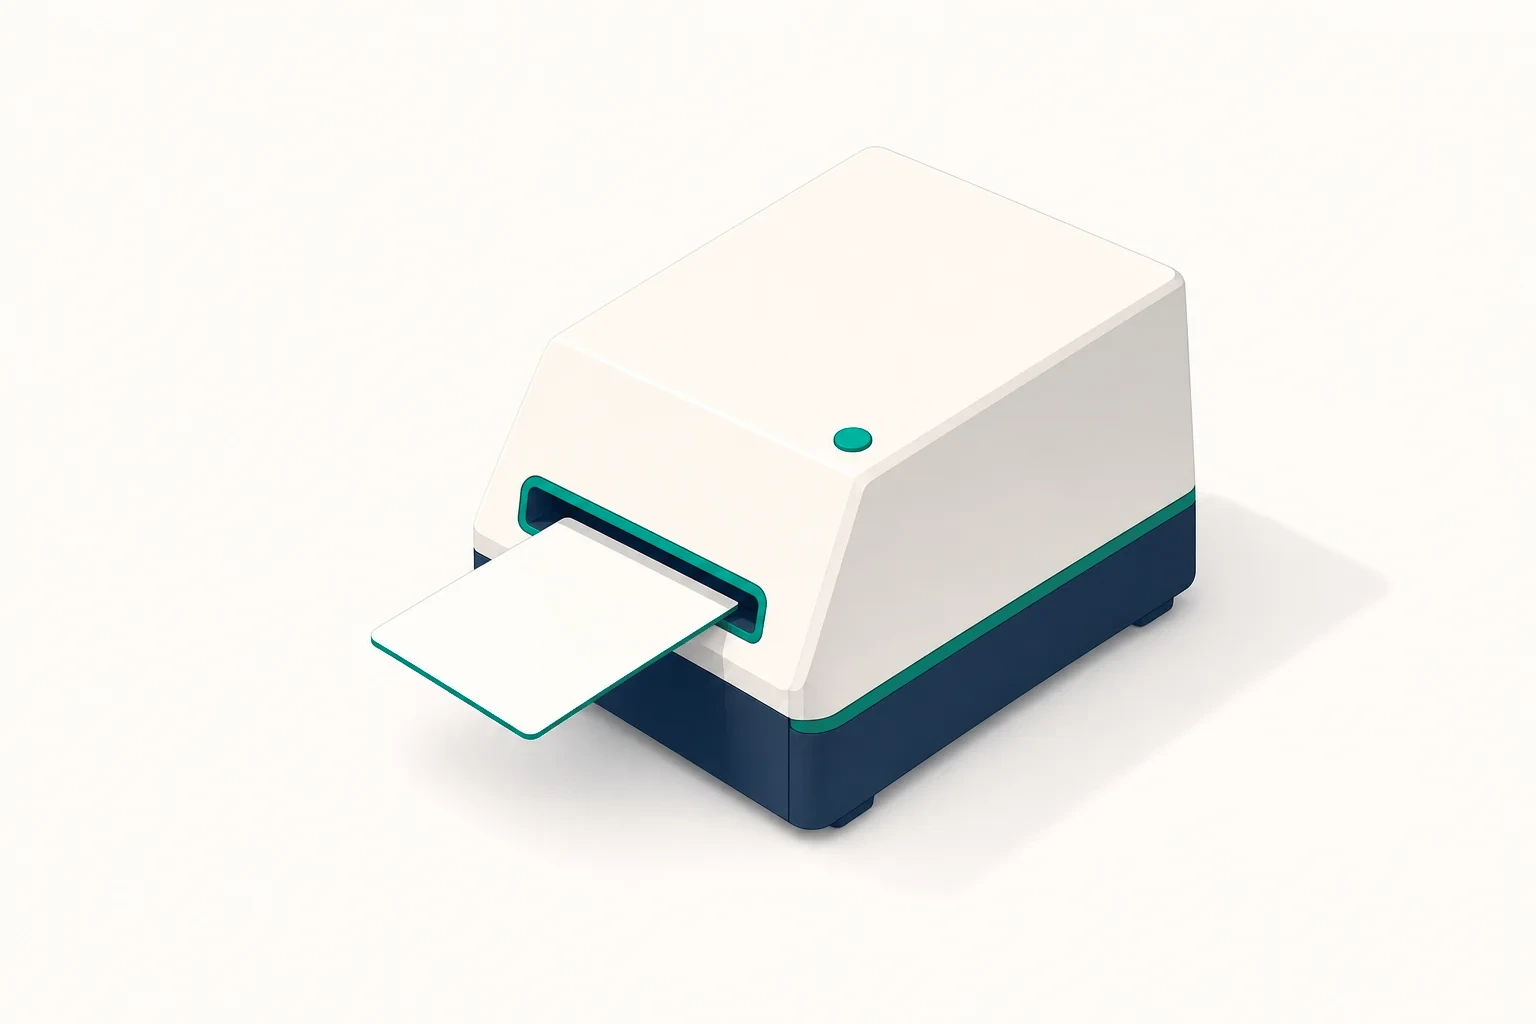
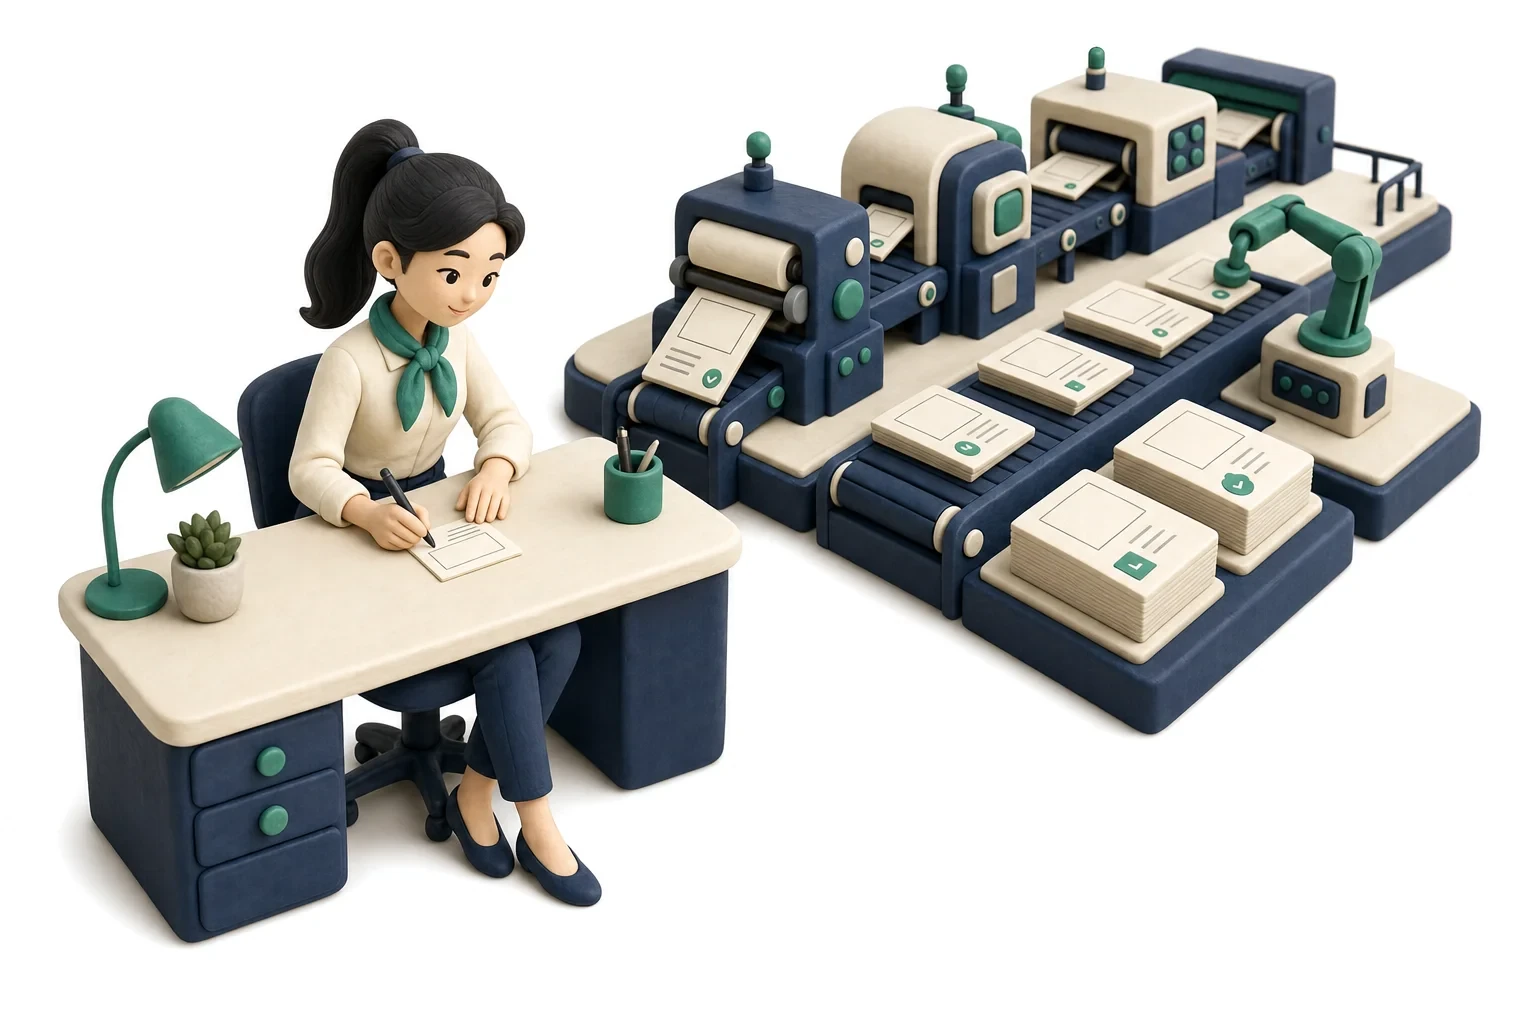
The page becomes one story: light chrome, a commanding hero, and a plane at the end
Loop three, guided by narrative research (StoryBrand: the customer is the
hero; every section one idea; the promise echoed in proof and ask).

The chrome matches the story now. The global navy bar stood over a white
hero, so this page carries its own light header — wordmark, sign in, start
producing — and the site footer keeps every column it always had but wears
its own built-in light theme here, closing the page on the same surface it
opened. Between them, exactly one dark act remains: channels flowing into
the ask, no longer two stacked navy bands over a navy footer.

The hero is recast as the panorama — printing, sealing, and a truck being
loaded in one frame, the producer commanding the middle — so the whole
pipeline passes the five-second test before a word is read. Her desk scene
takes the brief beat, which means cause and effect now share one visual
world. The Monday jump is framed honestly as a flashback (Before — any
given Monday / After — the same week), every beat speaks to you instead of
about her, and the background rhythm alternates strictly to the finale.

And at the end, the ambient moment: every fourteen seconds the sendoff
plane crosses the finale and rests — one element, transform-only, silent
under reduced motion. The kind of small recurring life the best pages leave
you with.

Claude-Session: https://claude.ai/code/session_01RHbMgFrd4oMPPzvhxNmHzD

diff --git a/src/components/HomeV3/HomeV3Page.tsx b/src/components/HomeV3/HomeV3Page.tsx
@@ -28,6 +28,7 @@ const cormorant = Cormorant_Garamond({
 });
 
 import ProcessScrubber from './ProcessScrubber';
+import HomeV3Header from './HomeV3Header';
 import CountUp from './CountUp';
 import './HomeV3.css';
 
@@ -50,6 +51,7 @@ const CHANNELS = [
 export default function HomeV3Page() {
   return (
     <div className={`hv3 ${cormorant.variable}`}>
+      <HomeV3Header />
       {/* ══ ACT I · The promise, with her on the floor ══
           Vertical: badge → headline → sub → CTAs, then the master scene
           spreading edge to edge underneath. The section's background IS the
@@ -78,9 +80,9 @@ export default function HomeV3Page() {
         <figure className="hv3-master hv3-enter" style={{ animationDelay: '380ms' }}>
           <img
             src="/brand/scenes/master.webp"
-            alt="The producer directing an isometric production floor — three lines turning out finished, approved creatives"
+            alt="One production floor, three zones: machines printing creatives, a sealing station stamping them, and a truck being loaded — the producer standing in command at the center"
             width={1536}
-            height={1024}
+            height={922}
             fetchPriority="high"
           />
         </figure>
@@ -92,14 +94,14 @@ export default function HomeV3Page() {
           <figure className="hv3-figure hv3-figure--monday">
             <img
               src="/brand/scenes/clay-monday.webp"
-              alt="The producer buried under an avalanche of creative requests, the wall calendar slipping off its hook"
+              alt="Buried under an avalanche of creative requests, the wall calendar slipping off its hook"
               loading="lazy"
               width={1536}
               height={1024}
             />
           </figure>
           <div>
-            <span className="hv3-eyebrow">Monday</span>
+            <span className="hv3-eyebrow">Before — any given Monday</span>
             <h2 className="hv3-title">Requests arrive faster than anyone can make them.</h2>
             <p className="hv3-lede">
               In more sizes than anyone wants to resize, for more channels than
@@ -115,16 +117,16 @@ export default function HomeV3Page() {
         <div className="hv3-container hv3-split hv3-split--rev">
           <div>
             <span className="hv3-eyebrow">The brief</span>
-            <h2 className="hv3-title">So she writes one brief.</h2>
+            <h2 className="hv3-title">So you write one brief.</h2>
             <p className="hv3-lede">
               Audience, offer, tone — the way you&apos;d brief a colleague.
-              It&apos;s the last production document anyone writes.
+              It&apos;s the last production document you&apos;ll write.
             </p>
           </div>
           <figure className="hv3-figure">
             <img
               src="/brand/scenes/brief.webp"
-              alt="One brief card sliding into the machine's intake"
+              alt="Writing the one brief at a desk while the production floor waits beyond it"
               loading="lazy"
               width={1536}
               height={1024}
@@ -186,7 +188,7 @@ export default function HomeV3Page() {
             />
           </figure>
           <div>
-            <span className="hv3-eyebrow">Keep producing</span>
+            <span className="hv3-eyebrow">After — the same week</span>
             <h2 className="hv3-title">Monday, handled.</h2>
             <p className="hv3-lede">
               Approve the direction once and the line keeps running on
@@ -197,7 +199,7 @@ export default function HomeV3Page() {
       </section>
 
       {/* ══ The receipts ══ */}
-      <section className="hv3-section hv3-section--alt">
+      <section className="hv3-section">
         <div className="hv3-container">
           <span className="hv3-eyebrow">
             <span className="hv3-live-dot" aria-hidden="true" /> Live · In production
@@ -206,7 +208,7 @@ export default function HomeV3Page() {
           <p className="hv3-lede">
             A consumer marketplace, fed entirely by Esy workflows — every
             asset generated, processed, stored, and billed with a full record.
-            Here are six, straight from the live catalog.
+            This is what autopilot ships — six assets, straight from the live catalog.
           </p>
           <dl className="hv3-stats">
             <div>
@@ -269,6 +271,16 @@ export default function HomeV3Page() {
 
       {/* ══ The ask ══ */}
       <section className="hv3-final">
+        {/* The recurring moment: every ~14s the plane crosses the finale and
+            rests. One element, transform-only, gone under reduced motion. */}
+        <img
+          src="/brand/scenes/sendoff.webp"
+          alt=""
+          aria-hidden="true"
+          className="hv3-flyby"
+          width={768}
+          height={576}
+        />
         <div className="hv3-container">
           <figure className="hv3-navy-scene hv3-sendoff">
             <img

diff --git a/src/components/HomeV3/HomeV3.css b/src/components/HomeV3/HomeV3.css
@@ -23,6 +23,40 @@
 }
 .hv3-container { max-width: 1120px; margin: 0 auto; padding: 0 24px; position: relative; z-index: 1; }
 
+/* ── The page's own light header ── */
+.hv3-header {
+  position: sticky; top: 0; z-index: 40;
+  background: rgba(255, 255, 255, 0.86);
+  backdrop-filter: blur(10px);
+  -webkit-backdrop-filter: blur(10px);
+  border-bottom: 1px solid var(--hv3-seam);
+}
+.hv3-header-inner {
+  max-width: 1120px; margin: 0 auto; padding: 0 24px;
+  height: 64px; display: flex; align-items: center; justify-content: space-between;
+}
+.hv3-wordmark {
+  font-family: var(--font-black-ops-one), sans-serif;
+  font-weight: 400; /* the only cut — synthetic bold fills the stencil gaps */
+  font-synthesis: none;
+  font-size: 1.5rem; line-height: 1;
+  color: var(--hv3-navy); text-decoration: none; letter-spacing: 0.01em;
+}
+.hv3-wordmark-e { color: var(--hv3-jade); }
+.hv3-header-nav { display: flex; align-items: center; gap: 12px; }
+.hv3-header-signin {
+  font-size: 0.94rem; font-weight: 600; color: var(--hv3-ink-soft);
+  text-decoration: none; padding: 9px 14px; border-radius: 8px;
+}
+.hv3-header-signin:hover { color: var(--hv3-navy); }
+.hv3-header-cta {
+  font-size: 0.94rem; font-weight: 600; color: #fff;
+  background: var(--hv3-jade); text-decoration: none;
+  padding: 10px 18px; border-radius: 8px;
+  transition: background 0.15s ease;
+}
+.hv3-header-cta:hover { background: var(--hv3-jade-bright); }
+
 /* ── Type ── */
 .hv3-eyebrow {
   display: inline-flex; align-items: center; gap: 8px;
@@ -137,7 +171,7 @@
 .hv3-section { padding: 88px 0; position: relative; }
 .hv3-section--alt { background: var(--hv3-bg-alt); }
 .hv3-monday { background: var(--hv3-bg-alt); }
-.hv3-friday { background: var(--hv3-bg); }
+.hv3-friday { background: var(--hv3-bg-alt); }
 .hv3-split {
   display: grid; grid-template-columns: 1.02fr 0.98fr;
   gap: 56px; align-items: center;
@@ -156,7 +190,7 @@
 .hv3-press {
   /* The 'Watch the line run' anchor lands here; keep the heading clear of
      the fixed nav. */
-  scroll-margin-top: 76px;
+  scroll-margin-top: 72px;
   /* The frames are balanced to the brand alt ground: boxless, on-theme. */
   background: var(--hv3-bg-alt);
   padding-top: 84px;
@@ -232,7 +266,7 @@
   display: grid; grid-template-columns: repeat(6, 1fr); gap: 14px;
 }
 .hv3-catalog li {
-  background: #FFFFFF;
+  background: var(--hv3-bg-alt);
   border: 1px solid var(--hv3-seam);
   border-radius: 12px;
   padding: 12px;
@@ -255,7 +289,7 @@
   pointer-events: none;
 }
 .hv3-channels-section {
-  position: relative; background: var(--hv3-navy); padding: 90px 0; overflow: hidden;
+  position: relative; background: var(--hv3-navy); padding: 90px 0 56px; overflow: hidden;
 }
 .hv3-channels-section .hv3-container { z-index: 2; }
 .hv3-channel-list { list-style: none; margin: 28px 0 0; padding: 0; display: grid; gap: 12px; max-width: 620px; }
@@ -273,7 +307,25 @@
 }
 
 /* ══ The ask ══ */
-.hv3-final { background: var(--hv3-navy); padding: 96px 0; text-align: center; border-top: 1px solid rgba(0, 212, 170, 0.25); }
+.hv3-final { background: var(--hv3-navy); padding: 24px 0 96px; text-align: center; position: relative; overflow: hidden; }
+/* The ambient flyby: a long rest, then one quiet crossing. The flight is 18%
+   of a 14s cycle (~2.5s); the rest of the cycle it waits off-screen. */
+.hv3-flyby {
+  position: absolute;
+  width: 300px; height: auto;
+  left: -320px; bottom: 4%;
+  pointer-events: none;
+  opacity: 0;
+  animation: hv3Flyby 14s linear infinite;
+  animation-delay: 3s;
+}
+@keyframes hv3Flyby {
+  0%   { transform: translate(0, 0); opacity: 0; }
+  1%   { opacity: 0.9; }
+  17%  { opacity: 0.9; }
+  18%  { transform: translate(calc(100vw + 640px), -46vh); opacity: 0; }
+  100% { transform: translate(calc(100vw + 640px), -46vh); opacity: 0; }
+}
 .hv3-final-headline {
   font-family: var(--hv3-serif, 'Cormorant Garamond'), Georgia, serif;
   font-weight: 700; font-size: clamp(2.1rem, 3.6vw, 3rem);

diff --git a/src/components/Home/footer.tsx b/src/components/Home/footer.tsx
@@ -71,6 +71,9 @@ export default function Footer () {
                                normalizedPath === '/404' || 
                                normalizedPath === '/not-found' ||
                                hasNotFoundBodyClass;
+        // The homepage-v3 candidate is light-first with a light header, so its
+        // footer uses the existing light theme (same footer, light skin).
+        const isHomepageV3 = normalizedPath === '/homepage-v3';
 
         // Reference unused page flags so future per-page overrides can re-attach
         // without re-discovering them. Navy Dark is the sitewide default footer;
@@ -80,7 +83,10 @@ export default function Footer () {
         // user wants a single, consistent footer treatment across the site.
         void (isHomepage || isEssaysPage || isAboutPage || isAgenticPage || isTemplatesPage || isDocsPage || isAgentsPage || isContactPage || isTermsPage || isPrivacyPage || isGlossaryPage || isInfographicsPage);
 
-        if (isModelsPage) {
+        if (isHomepageV3) {
+          setIsLightMode(true);
+          setIsNavyDark(false);
+        } else if (isModelsPage) {
           // Check localStorage for models page theme
           const storedTheme = localStorage.getItem('theme-models');
           if (storedTheme === 'light') {

diff --git a/src/components/ConditionalNavigation.js b/src/components/ConditionalNavigation.js
@@ -71,6 +71,10 @@ const ConditionalNavigation = () => {
   // Individual clip-art detail pages use their own artifact toolbar
   const isClipArtViewPage = normalizedPath?.startsWith('/clip-art/') && normalizedPath !== '/clip-art';
 
+  // The homepage-v3 candidate is light-first and carries its own light header
+  // (the global bar is navy and would sit on a white hero).
+  const isHomepageV3 = normalizedPath === '/homepage-v3';
+
   // Don't render navigation on:
   // - Essay view pages (focused reading)
   // - Infographic detail pages (artifact wrapper has own toolbar)
@@ -79,7 +83,7 @@ const ConditionalNavigation = () => {
   // - Agents pages (own sidebar navigation)
   // - Scrollytelling story pages (own header via ScrollytellingHeader)
   // - Photo essays landing page (immersive experience with own header)
-  if (isEssayViewPage || isInfographicViewPage || isClipArtViewPage || isDocsPage || isAgentsPage || isScrollytellingStoryPage || isPhotoEssaysPage) {
+  if (isEssayViewPage || isInfographicViewPage || isClipArtViewPage || isDocsPage || isAgentsPage || isScrollytellingStoryPage || isPhotoEssaysPage || isHomepageV3) {
     return null;
   }
 

diff --git a/src/components/HomeV3/HomeV3Header.tsx b/src/components/HomeV3/HomeV3Header.tsx
@@ -1,0 +1,24 @@
+import Link from 'next/link';
+
+/* The page's own header — light, because the hero is light. The global bar is
+   navy and stands down on this route (ConditionalNavigation), the same way
+   scrollytelling pages carry their own.
+
+   Sticky on white with a hairline; the wordmark is the brand mark itself:
+   Black Ops One at weight 400 (the only cut — faux bold fills the stencil
+   gaps), teal e, ink sy. */
+export default function HomeV3Header() {
+  return (
+    <header className="hv3-header">
+      <div className="hv3-header-inner">
+        <Link href="/" className="hv3-wordmark" aria-label="Esy home">
+          <span className="hv3-wordmark-e">e</span>sy
+        </Link>
+        <nav className="hv3-header-nav" aria-label="Primary">
+          <Link href="https://make.esy.com/signin" className="hv3-header-signin">Sign in</Link>
+          <Link href="https://make.esy.com" className="hv3-header-cta">Start producing</Link>
+        </nav>
+      </div>
+    </header>
+  );
+}
